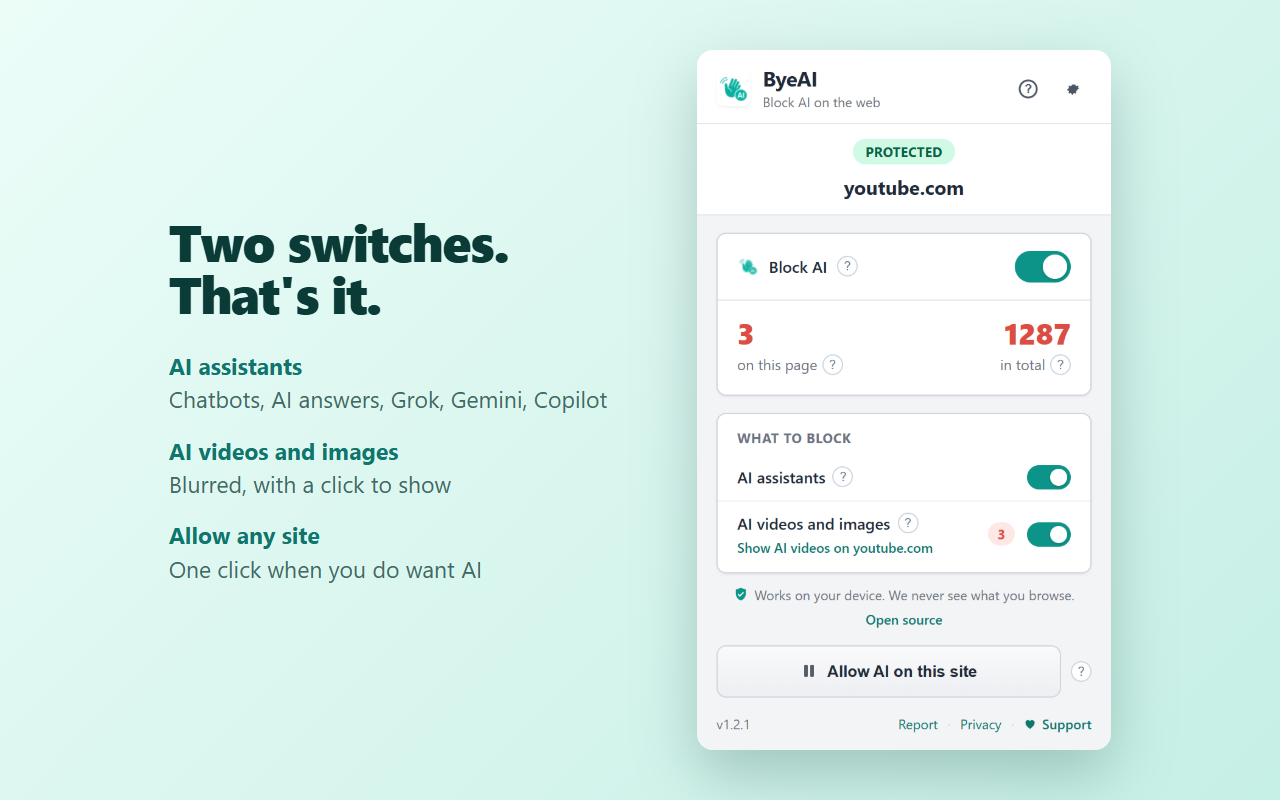
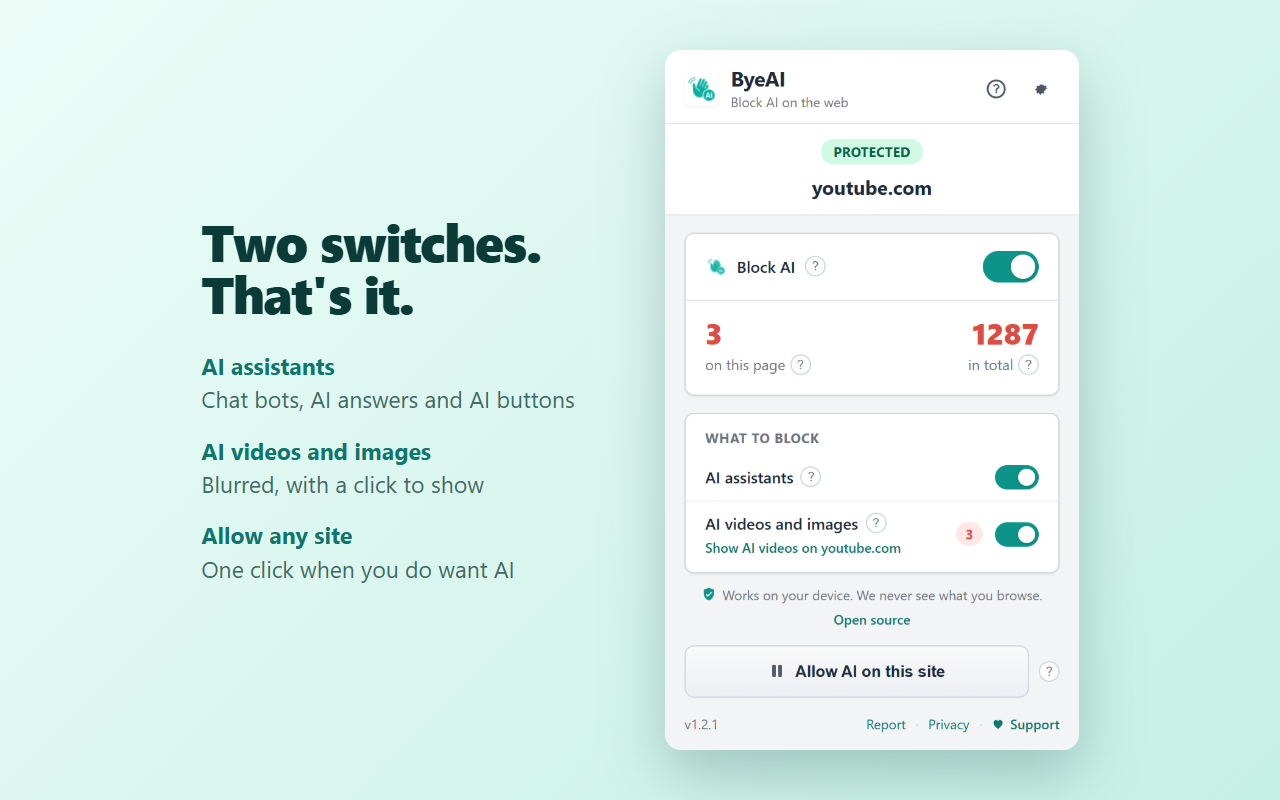
Store text and screenshot without brand names (keyword spam rejection)

diff --git a/marketing/store-listing.md b/marketing/store-listing.md
@@ -2,6 +2,8 @@
 
 Paste into the store dashboard. Written for everyday users, no tech words.
 
+No brand or platform names in the description: the store rejected 1.2.1 for "keyword spam" when it listed them (2026-10-18).
+
 ## English
 
 **Short description** (comes from the extension itself)
@@ -19,16 +21,16 @@ ByeAI keeps AI out of your way while you browse. It stops AI chat bubbles, AI bu
 WHAT BYEAI BLOCKS
 
 ★ AI chat bubbles and help bots on shops, news sites and apps
-★ AI buttons like Grok, Meta AI, Gemini, Copilot, Rufus and "Help me write"
-★ AI answers in search: Google AI Overviews, Bing Copilot, DuckDuckGo, Brave and Ecosia
-★ Amazon's AI-written review summaries (the real reviews stay)
+★ AI buttons and "write it for me" helpers that sites add
+★ AI answers at the top of search results
+★ AI-written review summaries in shops (the real reviews stay)
 ★ Hidden AI connections that sites use to stream AI answers in the background
 
 ==============================
 AI VIDEOS AND IMAGES
 
-★ Blurs posts and videos that YouTube, TikTok, Instagram, Facebook, Pinterest and others label as AI
-★ Also catches clear AI tags like #aiart and #midjourney
+★ Blurs posts and videos that video and social sites label as made with AI
+★ Also catches posts with clear AI art tags
 ★ Each blur says why it is there. Click it to see the post anyway
 ★ Blurred videos stay paused until you choose to watch
 
@@ -72,16 +74,16 @@ ByeAI pitää tekoälyn poissa tieltäsi, kun selaat. Se estää tekoälychatit,
 MITÄ BYEAI ESTÄÄ
 
 ★ Tekoälychatit ja -avustajat verkkokaupoissa, uutissivuilla ja sovelluksissa
-★ Tekoälypainikkeet, kuten Grok, Meta AI, Gemini, Copilot, Rufus ja "Help me write"
-★ Tekoälyn vastaukset hauissa: Googlen tekoälykatsaukset, Bing Copilot, DuckDuckGo, Brave ja Ecosia
-★ Amazonin tekoälyn kirjoittamat arvostelukoosteet (oikeat arvostelut jäävät näkyviin)
+★ Tekoälypainikkeet ja "kirjoita puolestani" -apurit, joita sivustot lisäävät
+★ Tekoälyn vastaukset hakutulosten yläosassa
+★ Verkkokauppojen tekoälyn kirjoittamat arvostelukoosteet (oikeat arvostelut jäävät näkyviin)
 ★ Taustalla toimivat tekoälyyhteydet, joilla sivustot hakevat vastauksia huomaamatta
 
 ==============================
 TEKOÄLYVIDEOT JA -KUVAT
 
-★ Sumentaa julkaisut ja videot, jotka YouTube, TikTok, Instagram, Facebook, Pinterest ja muut merkitsevät tekoälyn tekemiksi
-★ Tunnistaa myös selvät tekoälytunnisteet, kuten #aiart ja #midjourney
+★ Sumentaa julkaisut ja videot, jotka video- ja somepalvelut merkitsevät tekoälyn tekemiksi
+★ Tunnistaa myös julkaisut, joissa on selvä tekoälytaiteen tunniste
 ★ Jokainen sumennus kertoo syynsä. Klikkaa, jos haluat silti nähdä
 ★ Sumennetut videot pysyvät pysäytettyinä, kunnes itse päätät katsoa
 
